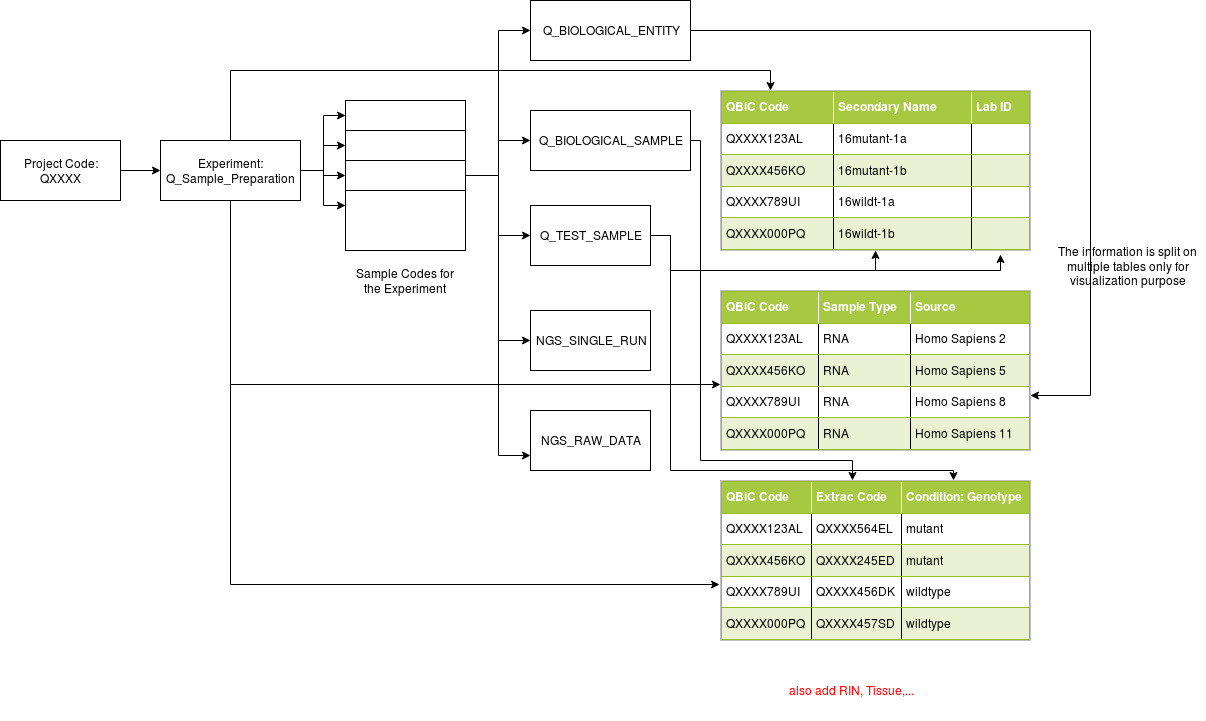
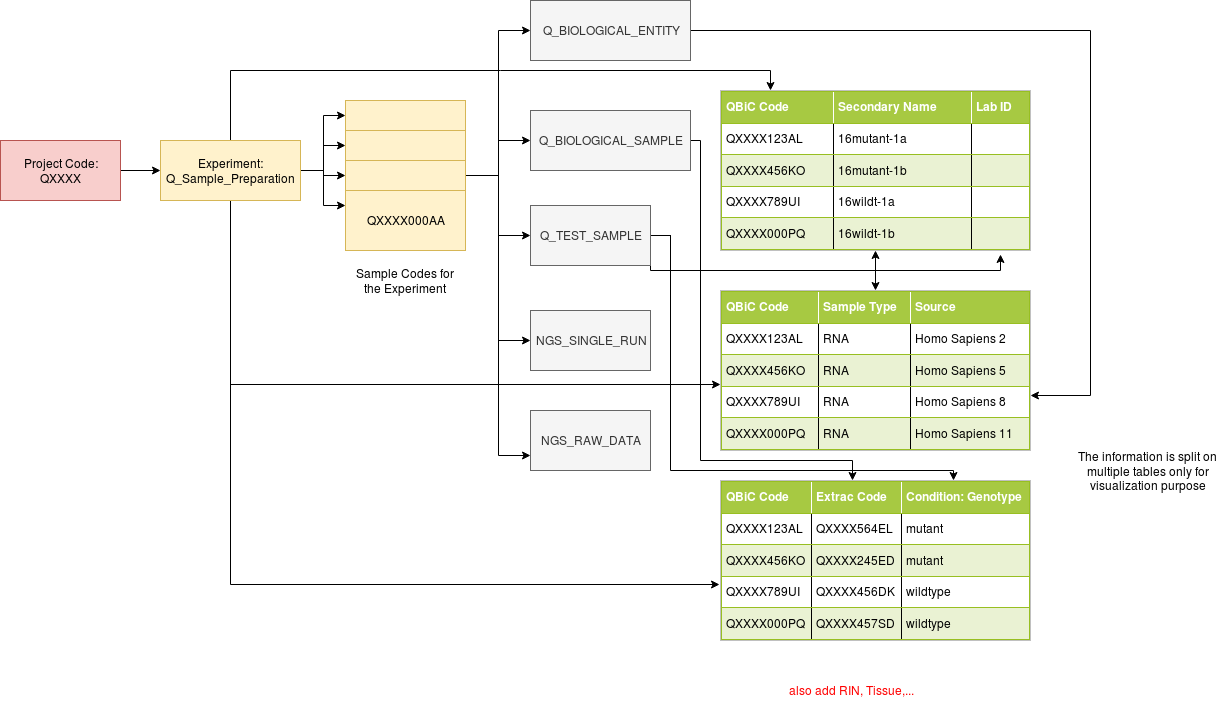
restructuring

diff --git a/metadata-utils/src/main/java/life/qbic/Samples/TestSample.java b/metadata-utils/src/main/java/life/qbic/Samples/TestSample.java
@@ -1,0 +1,122 @@
+package life.qbic.Samples;
+
+import ch.ethz.sis.openbis.generic.asapi.v3.IApplicationServerApi;
+import org.apache.logging.log4j.LogManager;
+import org.apache.logging.log4j.Logger;
+
+import java.util.HashMap;
+
+/**
+ * This class represents the TestSample (Q_TEST_SAMPLE), thus a row of the output table.
+ * It saves all relevant meta data for a TestSample
+ */
+public class TestSample {
+
+    //actually a Sample type on the level of the Experiment type Sample_Preparation
+    private String sessionToken;
+    private IApplicationServerApi applicationServer;
+    private String sampleCode;
+
+    private final static Logger LOG = LogManager.getLogger(TestSample.class);
+
+
+    public TestSample(String sessionToken, IApplicationServerApi applicationServer, String sampleCode){
+
+        this.sessionToken = sessionToken;
+        this.applicationServer = applicationServer;
+        this.sampleCode = sampleCode;
+
+    }
+
+
+    /**
+     * Return properties of the Sample as a map with key,value (e.g. health_state, healthy)
+     * @return
+     */
+    public HashMap<String,String> getSampleProperties(){
+        //Properties
+
+        return null;
+    }
+
+    /**
+     * Get the LabID for this sample (ExternalDB identifier)
+     * @return
+     */
+    public String getLabID(){
+        //External DB identifier
+
+        return "";
+    }
+
+    /**
+     * The "Sample type" is not the "Sample Type"
+     * e.g RNA (no QBiC specific code type for a Sample)
+     * @return
+     */
+    public String getSampleType(){
+        //Sample type
+
+        return "";
+    }
+
+
+    /**
+     *
+     * @return
+     */
+    // TODO: 6/7/19 There is also a secondary Name field for Q_NGS_SINGLE_RUN types.. which one is needed??
+    public String getSecondaryName(){
+        //Secondary name
+        return "";
+    }
+
+
+    /**
+     *
+     * @return
+     */
+    public String getTissue(){
+        //Primary tissue/body fluid
+        return "";
+    }
+
+    /**
+     *
+     * @return
+     */
+    public String getRIN(){
+        //RNA Integrity Number
+
+        return "";
+    }
+
+    /**
+     * Get the ExtractionCode from the corresponding Biological Sample
+     * @param bioSample
+     * @return
+     */
+    public String getExtractCode(BiologicalSample bioSample){
+        //Sample Type must equal Q_BIOLOGICAL_SAMPLE
+
+        //check if the given biologSample has the current TestSample as a parent
+
+        return "";
+    }
+
+    /**
+     *
+     * @param entity
+     * @return
+     */
+    public String getSource(BiologicalEntity entity){
+        //NCBI organism
+
+        return "";
+    }
+
+
+
+
+
+}

diff --git a/metadata-utils/src/main/java/life/qbic/Samples/BiologicalEntity.java b/metadata-utils/src/main/java/life/qbic/Samples/BiologicalEntity.java
@@ -1,0 +1,39 @@
+package life.qbic.Samples;
+
+import ch.ethz.sis.openbis.generic.asapi.v3.IApplicationServerApi;
+import ch.ethz.sis.openbis.generic.asapi.v3.dto.sample.Sample;
+
+import org.apache.logging.log4j.LogManager;
+import org.apache.logging.log4j.Logger;
+
+public class BiologicalEntity {
+
+    private String sessionToken;
+    private IApplicationServerApi applicationServer;
+    private String sampleCode;
+    private Sample biologEntity;
+
+    private final static Logger LOG = LogManager.getLogger(BiologicalEntity.class);
+
+
+    public BiologicalEntity(String sessionToken, IApplicationServerApi applicationServer, String sampleCode){
+
+        this.sessionToken = sessionToken;
+        this.applicationServer = applicationServer;
+        this.sampleCode = sampleCode;
+
+    }
+
+    /**
+     * Look up the corresponding Biolog. entity
+     * @return
+     */
+    // TODO: 6/7/19 what represents the sampleCode and how is it different tot he biolog. entity, rethink how to use the code and when this class is used
+    //  and for which types of samples they are used
+    public Sample getBiologEntity(){
+
+        return null;
+    }
+    //add more functions to retrieve further meta data info from this type
+
+}

diff --git a/metadata-utils/src/main/java/life/qbic/Experiment/SamplePreparation.java b/metadata-utils/src/main/java/life/qbic/Experiment/SamplePreparation.java
@@ -1,6 +1,8 @@
-package life.qbic;
+package life.qbic.Experiment;
 
 import ch.ethz.sis.openbis.generic.asapi.v3.IApplicationServerApi;
+import org.apache.logging.log4j.LogManager;
+import org.apache.logging.log4j.Logger;
 
 /**
  * Represents an Experiment of OpenBIS of the Type Q_Sample_Preparation
@@ -9,13 +11,16 @@ public class SamplePreparation {
 
     private String sessionToken;
     private IApplicationServerApi applicationServer;
-    private String projectCode;
+    private String experimentCode;
 
-    public SamplePreparation(String sessionToken, IApplicationServerApi applicationServer, String projectCode){
+    private final static Logger LOG = LogManager.getLogger(SamplePreparation.class);
+
+
+    public SamplePreparation(String sessionToken, IApplicationServerApi applicationServer, String experimentCode){
 
         this.sessionToken = sessionToken;
         this.applicationServer = applicationServer;
-        this.projectCode = projectCode;
+        this.experimentCode = experimentCode;
 
     }
 

diff --git a/metadata-utils/src/main/java/life/qbic/Samples/BiologicalSample.java b/metadata-utils/src/main/java/life/qbic/Samples/BiologicalSample.java
@@ -1,0 +1,26 @@
+package life.qbic.Samples;
+
+import ch.ethz.sis.openbis.generic.asapi.v3.IApplicationServerApi;
+
+import org.apache.logging.log4j.LogManager;
+import org.apache.logging.log4j.Logger;
+
+public class BiologicalSample {
+
+    private String sessionToken;
+    private IApplicationServerApi applicationServer;
+    private String sampleCode;
+
+    private final static Logger LOG = LogManager.getLogger(BiologicalSample.class);
+
+
+    public BiologicalSample(String sessionToken, IApplicationServerApi applicationServer, String sampleCode){
+
+        this.sessionToken = sessionToken;
+        this.applicationServer = applicationServer;
+        this.sampleCode = sampleCode;
+
+    }
+
+    // TODO: 6/7/19 add functions to represent the biolog sample type from openBIS (retrieve needed properties) 
+}

diff --git a/metadata-utils/src/main/java/life/qbic/Project/Project.java b/metadata-utils/src/main/java/life/qbic/Project/Project.java
@@ -1,6 +1,8 @@
-package life.qbic;
+package life.qbic.Project;
 
 import ch.ethz.sis.openbis.generic.asapi.v3.IApplicationServerApi;
+import org.apache.logging.log4j.LogManager;
+import org.apache.logging.log4j.Logger;
 
 /**
  * This Class represents the Project for which the meta data should be collected
@@ -10,6 +12,9 @@ public class Project {
     private String sessionToken;
     private IApplicationServerApi applicationServer;
     private String projectCode;
+
+    private final static Logger LOG = LogManager.getLogger(Project.class);
+
 
     public Project(String sessionToken, IApplicationServerApi applicationServer, String projectCode){
 

diff --git a/metadata-utils/src/test/java/life/qbic/TestProject.java b/metadata-utils/src/test/java/life/qbic/TestProject.java
@@ -1,4 +1,24 @@
 package life.qbic;
 
+import ch.ethz.sis.openbis.generic.asapi.v3.IApplicationServerApi;
+import life.qbic.Project.Project;
+import org.junit.*;
+
+
 public class TestProject {
+
+    Project project;
+    IApplicationServerApi applicationServerApi;
+
+    @Before
+    public void setUp(){
+        project = new Project("token", applicationServerApi, "QXXXX");
+    }
+    @Test
+    public void getSamplePreparationCodes(){
+
+        //obtained list should not be null
+        //assertNotNull();
+        //elements in list should s
+    }
 }

diff --git a/metadata-utils/src/main/java/life/qbic/Experiment/SampleExtraction.java b/metadata-utils/src/main/java/life/qbic/Experiment/SampleExtraction.java
@@ -1,0 +1,4 @@
+package life.qbic.Experiment;
+
+public class SampleExtraction {
+}
